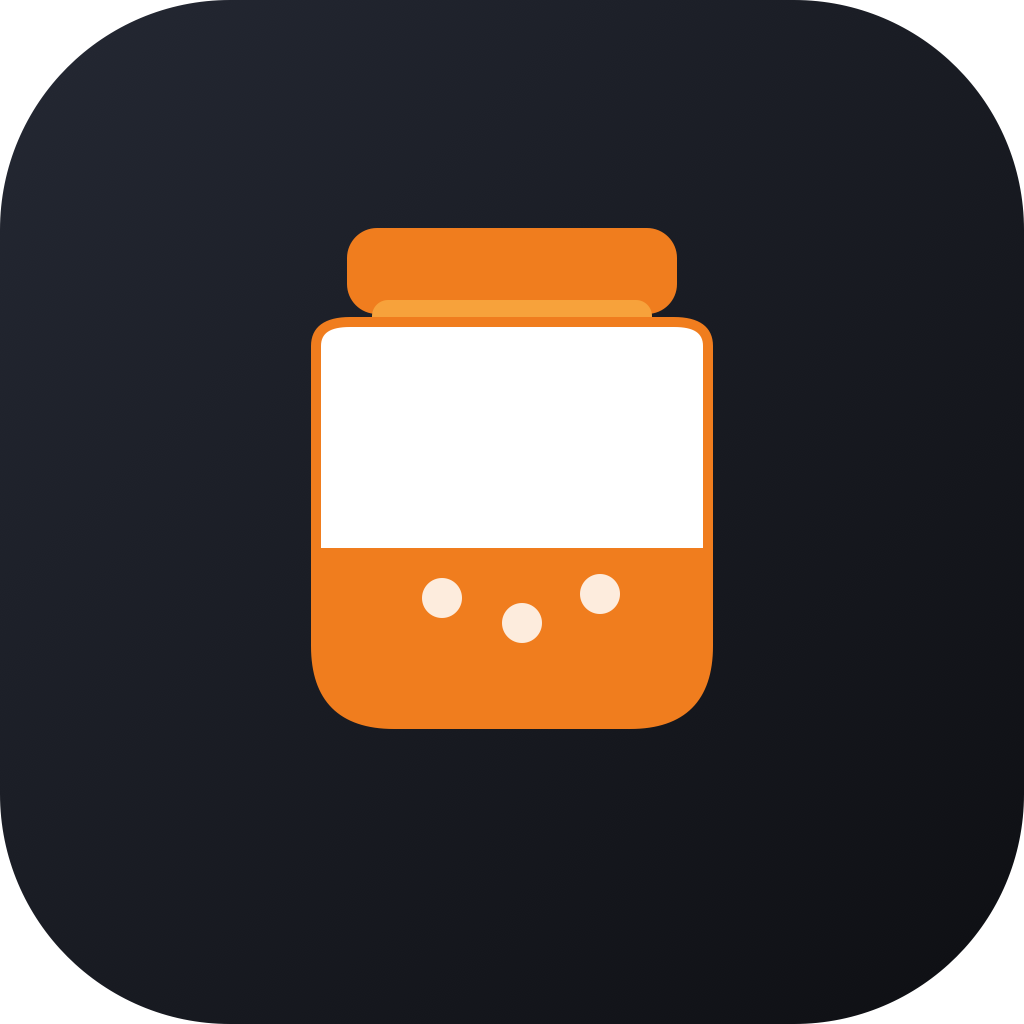
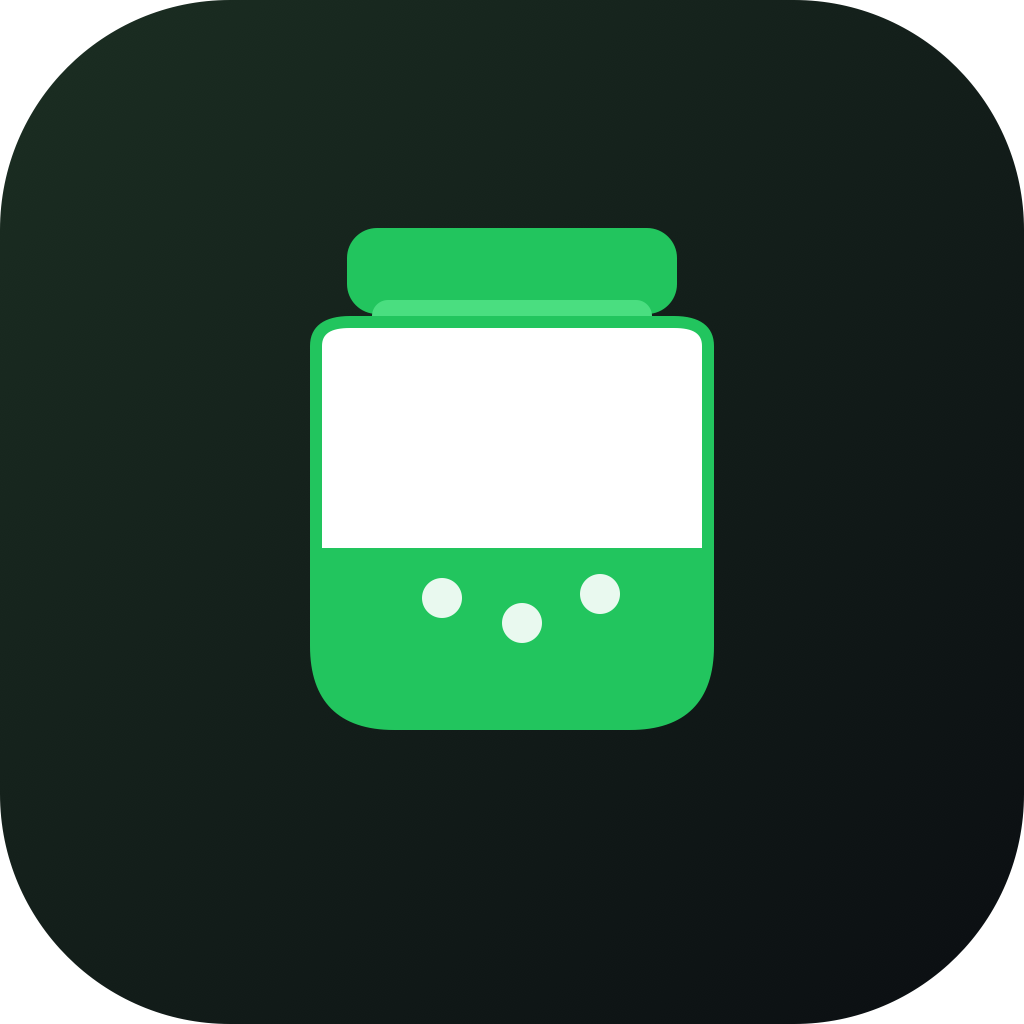
Icona app verde su sfondo scuro (alto contrasto) + ingranaggio header più grande
- Nuova icona in tema brand: sfondo scuro verde + barattolo bianco/verde con
  bordo, visibile su qualsiasi launcher (risolve l'icona "tutta bianca").
  Rigenerate icone Android/iOS con @capacitor/assets.
- Header: ingranaggio Impostazioni ingrandito (l'emoji rendeva più piccola).

Changed region(s): [[0.2812, 0.2188, 0.7188, 0.7188]]

diff --git a/index.html b/index.html
@@ -242,6 +242,7 @@ h1, h2, h3, .stitle, .sync-title, #hdr h1 { font-family: var(--font-head); }
 /* Bottoni-icona nell'header (Statistiche + Impostazioni) */
 .hdr-icon-btn, #sync-btn { width: 40px; height: 40px; padding: 0; border-radius: 50%; display: flex; align-items: center; justify-content: center; gap: 0; font-size: 18px; background: var(--surface); border: 1px solid var(--border); color: var(--text-secondary); cursor: pointer; transition: all .18s; flex-shrink: 0; white-space: normal; }
 .hdr-icon-btn:hover, #sync-btn:hover { border-color: var(--primary); color: var(--primary); background: var(--surface-elevated); }
+#sync-btn { font-size: 21px; } /* l'emoji ingranaggio rende più piccola: la ingrandisco */
 
 /* Bottom tab bar */
 #tabs {
